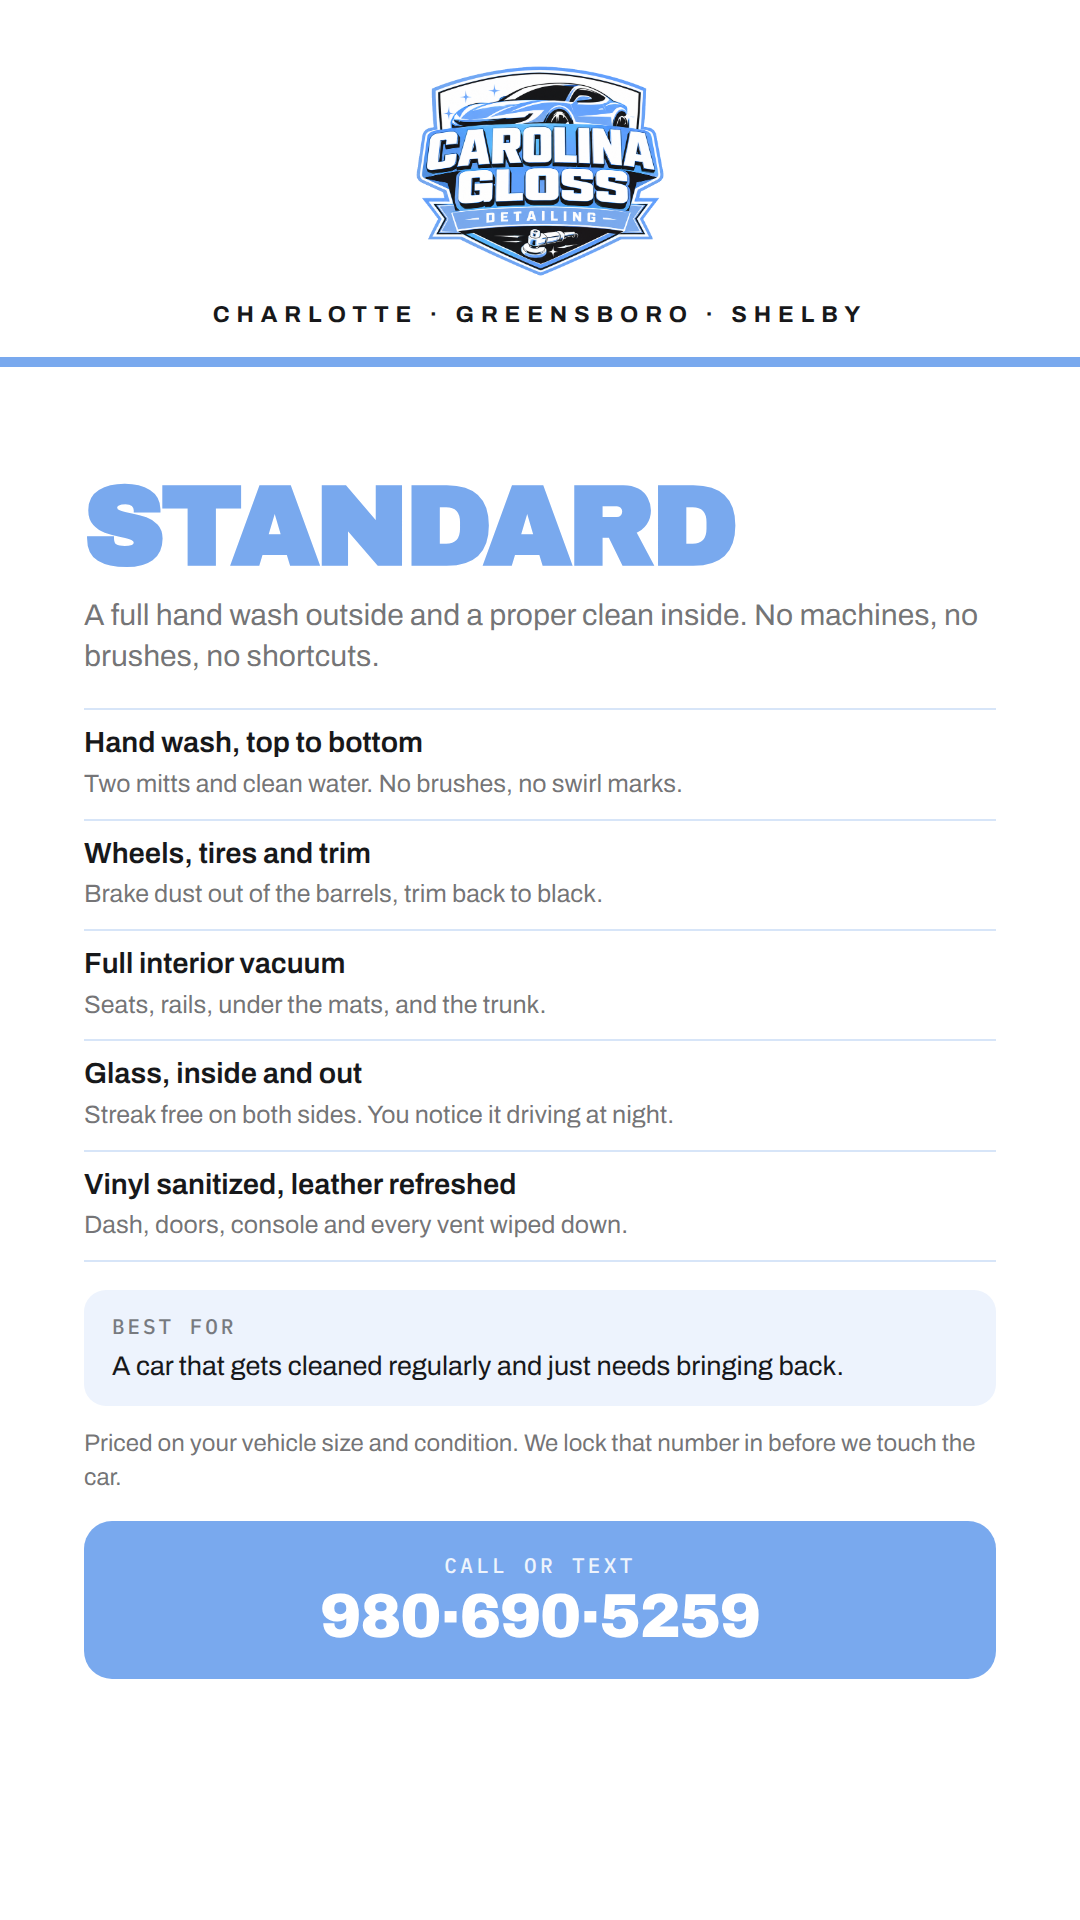
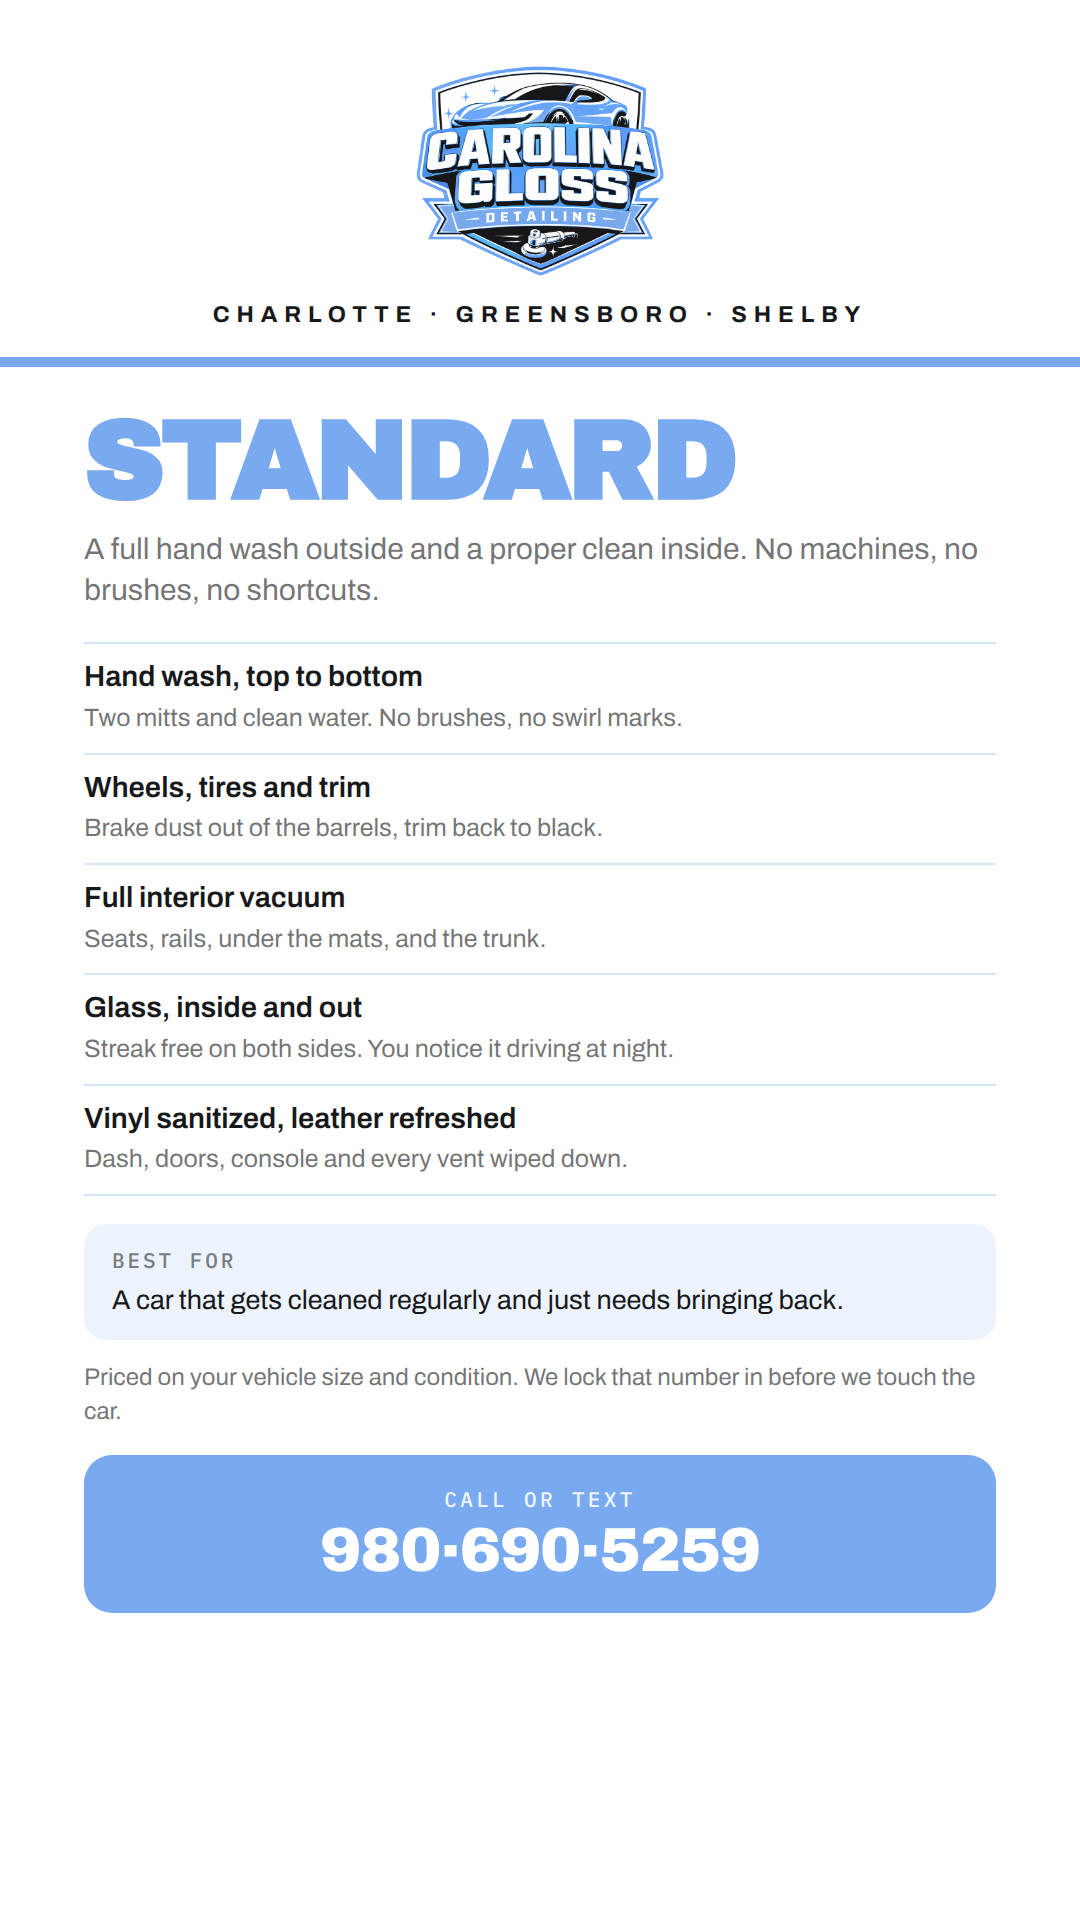
Replace the badge with a blue corner ribbon on Gloss
A diagonal "#1 MOST POPULAR" ribbon in the top right corner, in the brand
blue, sized to end just above the divider bar so it stays inside the white
header. Gold is gone; the palette is back to black, white and blue.

Dropping the badge row moved every headline up, so all three frames are
re-rendered to keep them aligned with each other.

Claude-Session: https://claude.ai/code/session_016b3V5EjCTmSZMCSHy3XdSF

Changed region(s): [[0.0611, 0.2188, 0.9472, 0.875]]

diff --git a/design/story-highlights/Story Highlights - Services.dc.html b/design/story-highlights/Story Highlights - Services.dc.html
@@ -31,8 +31,7 @@
       </div>
       <div style="flex:0 0 auto;height:10px;background:#79A9EE;"></div>
       <div style="flex:1 1 auto;padding:44px 84px 0;box-sizing:border-box;display:flex;flex-direction:column;">
-        <div style="min-height:46px;display:flex;align-items:center;"></div>
-        <h1 style="margin:20px 0 0;font-family:'Archivo Black',Helvetica,sans-serif;font-size:112px;line-height:0.9;letter-spacing:-0.03em;color:#79A9EE;text-transform:uppercase;">Standard</h1>
+        <h1 style="margin:0;font-family:'Archivo Black',Helvetica,sans-serif;font-size:112px;line-height:0.9;letter-spacing:-0.03em;color:#79A9EE;text-transform:uppercase;">Standard</h1>
         <p style="margin:18px 0 0;font:400 30px/1.38 'Archivo',sans-serif;color:rgba(23,24,26,0.62);text-wrap:pretty;">A full hand wash outside and a proper clean inside. No machines, no brushes, no shortcuts.</p>
         <div style="margin-top:30px;"><div style="padding:17px 0;border-top:2px solid #D7E5F8;"><div style="font:600 29px/1.2 'Archivo',sans-serif;color:#17181A;">Hand wash, top to bottom</div><div style="margin-top:6px;font:400 25px/1.34 'Archivo',sans-serif;color:rgba(23,24,26,0.62);">Two mitts and clean water. No brushes, no swirl marks.</div></div><div style="padding:17px 0;border-top:2px solid #D7E5F8;"><div style="font:600 29px/1.2 'Archivo',sans-serif;color:#17181A;">Wheels, tires and trim</div><div style="margin-top:6px;font:400 25px/1.34 'Archivo',sans-serif;color:rgba(23,24,26,0.62);">Brake dust out of the barrels, trim back to black.</div></div><div style="padding:17px 0;border-top:2px solid #D7E5F8;"><div style="font:600 29px/1.2 'Archivo',sans-serif;color:#17181A;">Full interior vacuum</div><div style="margin-top:6px;font:400 25px/1.34 'Archivo',sans-serif;color:rgba(23,24,26,0.62);">Seats, rails, under the mats, and the trunk.</div></div><div style="padding:17px 0;border-top:2px solid #D7E5F8;"><div style="font:600 29px/1.2 'Archivo',sans-serif;color:#17181A;">Glass, inside and out</div><div style="margin-top:6px;font:400 25px/1.34 'Archivo',sans-serif;color:rgba(23,24,26,0.62);">Streak free on both sides. You notice it driving at night.</div></div><div style="padding:17px 0;border-top:2px solid #D7E5F8;border-bottom:2px solid #D7E5F8;"><div style="font:600 29px/1.2 'Archivo',sans-serif;color:#17181A;">Vinyl sanitized, leather refreshed</div><div style="margin-top:6px;font:400 25px/1.34 'Archivo',sans-serif;color:rgba(23,24,26,0.62);">Dash, doors, console and every vent wiped down.</div></div></div>
         <div style="margin-top:28px;background:#EDF3FD;border-radius:22px;padding:22px 28px;">
@@ -52,15 +51,14 @@
     <sc-if value="{{ showLabels }}" hint-placeholder-val="{{ true }}">
       <div style="font:500 30px 'IBM Plex Mono',monospace;color:#8A95A2;letter-spacing:0.04em;">02 Gloss</div>
     </sc-if>
-    <section data-screen-label="02 Gloss" style="width:1080px;height:1920px;flex:0 0 auto;position:relative;overflow:hidden;background:#FFFFFF;display:flex;flex-direction:column;">
+    <section data-screen-label="02 Gloss" style="width:1080px;height:1920px;flex:0 0 auto;position:relative;overflow:hidden;background:#FFFFFF;display:flex;flex-direction:column;"><div style="position:absolute;top:0;right:0;width:340px;height:340px;overflow:hidden;"><span style="position:absolute;width:481px;left:-70px;top:138px;padding:16px 0;background:#79A9EE;color:#FFFFFF;text-align:center;transform:rotate(45deg);font:700 27px 'Archivo',sans-serif;letter-spacing:0.1em;">&#9733; #1 MOST POPULAR</span></div>
       <div style="flex:0 0 auto;padding:64px 84px 30px;display:flex;flex-direction:column;align-items:center;">
         <img src="assets/logo.png" alt="Carolina Gloss Detailing" style="width:252px;height:auto;display:block;">
         <div style="margin-top:24px;font:700 23px 'Archivo',sans-serif;letter-spacing:0.3em;color:#17181A;">CHARLOTTE · GREENSBORO · SHELBY</div>
       </div>
       <div style="flex:0 0 auto;height:10px;background:#79A9EE;"></div>
       <div style="flex:1 1 auto;padding:44px 84px 0;box-sizing:border-box;display:flex;flex-direction:column;">
-        <div style="min-height:46px;display:flex;align-items:center;"><div style="flex:0 0 auto;display:inline-flex;align-items:center;gap:10px;background:#E8B33F;color:#17181A;border:3px solid #B2822A;border-radius:999px;padding:8px 22px 8px 18px;font:700 22px 'Archivo',sans-serif;letter-spacing:0.08em;"><span style="font-size:24px;line-height:1;">★</span>MOST POPULAR</div></div>
-        <h1 style="margin:20px 0 0;font-family:'Archivo Black',Helvetica,sans-serif;font-size:112px;line-height:0.9;letter-spacing:-0.03em;color:#79A9EE;text-transform:uppercase;">Gloss</h1>
+        <h1 style="margin:0;font-family:'Archivo Black',Helvetica,sans-serif;font-size:112px;line-height:0.9;letter-spacing:-0.03em;color:#79A9EE;text-transform:uppercase;">Gloss</h1>
         <p style="margin:18px 0 0;font:400 30px/1.38 'Archivo',sans-serif;color:rgba(23,24,26,0.62);text-wrap:pretty;">Everything in Standard, then two steps that change how the car actually feels.</p>
         <div style="margin-top:30px;"><div style="padding:17px 0;border-top:2px solid #D7E5F8;"><div style="font:600 29px/1.2 'Archivo',sans-serif;color:#17181A;">Clay bar</div><div style="margin-top:6px;font:400 25px/1.34 'Archivo',sans-serif;color:rgba(23,24,26,0.62);">Pulls the grit washing cannot reach. Run your hand over the hood after.</div></div><div style="padding:17px 0;border-top:2px solid #D7E5F8;"><div style="font:600 29px/1.2 'Archivo',sans-serif;color:#17181A;">Hot water extraction</div><div style="margin-top:6px;font:400 25px/1.34 'Archivo',sans-serif;color:rgba(23,24,26,0.62);">Coffee, dog, kids, gym bag. Gone, not covered up.</div></div><div style="padding:17px 0;border-top:2px solid #D7E5F8;"><div style="font:600 29px/1.2 'Archivo',sans-serif;color:#17181A;">Two bucket wash</div><div style="margin-top:6px;font:400 25px/1.34 'Archivo',sans-serif;color:rgba(23,24,26,0.62);">Dirt goes in its own bucket, never back onto your paint.</div></div><div style="padding:17px 0;border-top:2px solid #D7E5F8;"><div style="font:600 29px/1.2 'Archivo',sans-serif;color:#17181A;">Leather and vinyl conditioned</div><div style="margin-top:6px;font:400 25px/1.34 'Archivo',sans-serif;color:rgba(23,24,26,0.62);">So it stops drying out and cracking in the Carolina sun.</div></div><div style="padding:17px 0;border-top:2px solid #D7E5F8;border-bottom:2px solid #D7E5F8;"><div style="font:600 29px/1.2 'Archivo',sans-serif;color:#17181A;">Wheels and tires, second pass</div><div style="margin-top:6px;font:400 25px/1.34 'Archivo',sans-serif;color:rgba(23,24,26,0.62);">Faces, barrels and lug seats done properly, then dressed.</div></div></div>
         <div style="margin-top:28px;background:#EDF3FD;border-radius:22px;padding:22px 28px;">
@@ -87,8 +85,7 @@
       </div>
       <div style="flex:0 0 auto;height:10px;background:#79A9EE;"></div>
       <div style="flex:1 1 auto;padding:44px 84px 0;box-sizing:border-box;display:flex;flex-direction:column;">
-        <div style="min-height:46px;display:flex;align-items:center;"></div>
-        <h1 style="margin:20px 0 0;font-family:'Archivo Black',Helvetica,sans-serif;font-size:112px;line-height:0.9;letter-spacing:-0.03em;color:#79A9EE;text-transform:uppercase;">Deluxe</h1>
+        <h1 style="margin:0;font-family:'Archivo Black',Helvetica,sans-serif;font-size:112px;line-height:0.9;letter-spacing:-0.03em;color:#79A9EE;text-transform:uppercase;">Deluxe</h1>
         <p style="margin:18px 0 0;font:400 30px/1.38 'Archivo',sans-serif;color:rgba(23,24,26,0.62);text-wrap:pretty;">We strip it back first so the new protection actually bonds, then seal and wax it.</p>
         <div style="margin-top:30px;"><div style="padding:17px 0;border-top:2px solid #D7E5F8;"><div style="font:600 29px/1.2 'Archivo',sans-serif;color:#17181A;">Full clay bar</div><div style="margin-top:6px;font:400 25px/1.34 'Archivo',sans-serif;color:rgba(23,24,26,0.62);">The whole body decontaminated panel by panel, not a spot treatment.</div></div><div style="padding:17px 0;border-top:2px solid #D7E5F8;"><div style="font:600 29px/1.2 'Archivo',sans-serif;color:#17181A;">Chemical strip wash</div><div style="margin-top:6px;font:400 25px/1.34 'Archivo',sans-serif;color:rgba(23,24,26,0.62);">Old wax and road film off so the new protection bonds.</div></div><div style="padding:17px 0;border-top:2px solid #D7E5F8;"><div style="font:600 29px/1.2 'Archivo',sans-serif;color:#17181A;">Ceramic soap</div><div style="margin-top:6px;font:400 25px/1.34 'Archivo',sans-serif;color:rgba(23,24,26,0.62);">Lays down a slick layer. Water sheets straight off your paint.</div></div><div style="padding:17px 0;border-top:2px solid #D7E5F8;"><div style="font:600 29px/1.2 'Archivo',sans-serif;color:#17181A;">Hand wax and spray sealant</div><div style="margin-top:6px;font:400 25px/1.34 'Archivo',sans-serif;color:rgba(23,24,26,0.62);">Months of protection against pollen, sun and road salt.</div></div><div style="padding:17px 0;border-top:2px solid #D7E5F8;border-bottom:2px solid #D7E5F8;"><div style="font:600 29px/1.2 'Archivo',sans-serif;color:#17181A;">Interior shampooed and conditioned</div><div style="margin-top:6px;font:400 25px/1.34 'Archivo',sans-serif;color:rgba(23,24,26,0.62);">Comes back looking like a lease return.</div></div></div>
         <div style="margin-top:28px;background:#EDF3FD;border-radius:22px;padding:22px 28px;">

diff --git a/design/story-highlights/build.py b/design/story-highlights/build.py
@@ -22,7 +22,6 @@ BLUE = "#79A9EE"         # logo Carolina blue
 TINT = "#EDF3FD"         # BLUE washed into white, for cards
 RULE = "#D7E5F8"         # BLUE washed into white, for dividers
 MUTED = "rgba(23,24,26,0.62)"   # the same black, stepped back
-GOLD, GOLD_EDGE = "#E8B33F", "#B2822A"   # Most Popular badge only
 
 PHONE = "980\u00b7690\u00b75259"
 CITIES = "CHARLOTTE \u00b7 GREENSBORO \u00b7 SHELBY"
@@ -92,11 +91,8 @@ def row_html(title, desc, last):
 
 
 def page(pkg, logo_uri, faces):
-    pill = ('<div style="flex:0 0 auto;display:inline-flex;align-items:center;gap:10px;'
-            'background:{gold};color:{ink};border:3px solid {edge};border-radius:999px;'
-            'padding:8px 22px 8px 18px;font:700 22px Archivo,sans-serif;letter-spacing:0.08em;">'
-            '<span style="font-size:24px;line-height:1;">\u2605</span>MOST POPULAR</div>'
-            ).format(gold=GOLD, edge=GOLD_EDGE, ink=INK) if pkg["popular"] else ""
+    ribbon = ('<div class="ribbon"><span>&#9733; #1 MOST POPULAR</span></div>'
+              if pkg["popular"] else "")
     rows = "".join(row_html(t, d, i == len(pkg["rows"]) - 1)
                    for i, (t, d) in enumerate(pkg["rows"]))
     return """<!doctype html><html><head><meta charset="utf-8"><style>
@@ -106,7 +102,13 @@ html,body{{margin:0;padding:0;}}
 body{{width:1080px;height:1920px;overflow:hidden;background:#fff;
  font-family:Archivo,Helvetica,sans-serif;-webkit-font-smoothing:antialiased;
  text-rendering:geometricPrecision;color:{ink};}}
-.frame{{width:1080px;height:1920px;display:flex;flex-direction:column;background:#fff;}}
+.frame{{width:1080px;height:1920px;display:flex;flex-direction:column;background:#fff;
+ position:relative;overflow:hidden;}}
+.ribbon{{position:absolute;top:0;right:0;width:340px;height:340px;overflow:hidden;
+ pointer-events:none;}}
+.ribbon span{{position:absolute;width:481px;left:-70px;top:138px;padding:16px 0;
+ background:{blue};color:#FFFFFF;text-align:center;transform:rotate(45deg);
+ font:700 27px Archivo,sans-serif;letter-spacing:0.1em;}}
 .head{{flex:0 0 auto;padding:64px 84px 30px;display:flex;flex-direction:column;
  align-items:center;}}
 .head img{{width:252px;height:auto;display:block;}}
@@ -114,8 +116,7 @@ body{{width:1080px;height:1920px;overflow:hidden;background:#fff;
  letter-spacing:0.3em;color:{ink};}}
 .bar{{flex:0 0 auto;height:10px;background:{blue};}}
 .body{{flex:1 1 auto;padding:44px 84px 0;display:flex;flex-direction:column;}}
-.eyebrow{{min-height:46px;display:flex;align-items:center;}}
-h1{{margin:20px 0 0;font-family:'Archivo Black',Helvetica,sans-serif;font-size:112px;
+h1{{margin:0;font-family:'Archivo Black',Helvetica,sans-serif;font-size:112px;
  line-height:0.9;letter-spacing:-0.03em;color:{blue};text-transform:uppercase;}}
 .sub{{margin:18px 0 0;font:400 30px/1.38 Archivo,sans-serif;color:{muted};}}
 .rows{{margin-top:30px;}}
@@ -130,12 +131,11 @@ h1{{margin:20px 0 0;font-family:'Archivo Black',Helvetica,sans-serif;font-size:1
  color:#FFFFFF;opacity:0.88;}}
 .cta .num{{margin-top:8px;font-family:'Archivo Black',Helvetica,sans-serif;font-size:62px;
  line-height:1;letter-spacing:-0.02em;color:#FFFFFF;white-space:nowrap;}}
-</style></head><body><div class="frame">
+</style></head><body><div class="frame">{ribbon}
 <div class="head"><img src="{logo}" alt="Carolina Gloss Detailing">
 <div class="cities">{cities}</div></div>
 <div class="bar"></div>
 <div class="body">
-<div class="eyebrow">{pill}</div>
 <h1>{title}</h1>
 <p class="sub">{sub}</p>
 <div class="rows">{rows}</div>
@@ -144,7 +144,7 @@ h1{{margin:20px 0 0;font-family:'Archivo Black',Helvetica,sans-serif;font-size:1
 <div class="cta"><div class="lbl">CALL OR TEXT</div><div class="num">{phone}</div></div>
 </div></div></body></html>""".format(
         faces=faces, ink=INK, blue=BLUE, tint=TINT, muted=MUTED,
-        logo=logo_uri, cities=CITIES, pill=pill,
+        logo=logo_uri, cities=CITIES, ribbon=ribbon,
         title=pkg["title"], sub=pkg["sub"], rows=rows, best=pkg["best"],
         price=PRICE_LINE, phone=PHONE)
 
@@ -159,7 +159,10 @@ def main():
         write_canvas()
         return
     measure = "--measure" in sys.argv
+    only = [a for a in sys.argv[1:] if not a.startswith("--")]
     for pkg in PACKAGES:
+        if only and pkg["slug"] not in only:
+            continue
         html_path = os.path.join(tmp, "render-%s.html" % pkg["slug"])
         with open(html_path, "w") as fh:
             fh.write(page(pkg, logo_uri, faces))
@@ -196,11 +199,11 @@ def main():
 # additionally accepts a real photo behind a dark scrim once the client has one.
 
 def canvas_section(pkg, idx):
-    pill = ('<div style="flex:0 0 auto;display:inline-flex;align-items:center;gap:10px;'
-            'background:%s;color:%s;border:3px solid %s;border-radius:999px;'
-            'padding:8px 22px 8px 18px;font:700 22px \'Archivo\',sans-serif;letter-spacing:0.08em;">'
-            '<span style="font-size:24px;line-height:1;">\u2605</span>MOST POPULAR</div>'
-            % (GOLD, INK, GOLD_EDGE)) if pkg["popular"] else ""
+    ribbon = ('<div style="position:absolute;top:0;right:0;width:340px;height:340px;overflow:hidden;">'
+              '<span style="position:absolute;width:481px;left:-70px;top:138px;padding:16px 0;'
+              'background:%s;color:#FFFFFF;text-align:center;transform:rotate(45deg);'
+              'font:700 27px \'Archivo\',sans-serif;letter-spacing:0.1em;">'
+              '&#9733; #1 MOST POPULAR</span></div>' % BLUE) if pkg["popular"] else ""
     rows = []
     for i, (t, d) in enumerate(pkg["rows"]):
         edge = "border-bottom:2px solid %s;" % RULE if i == len(pkg["rows"]) - 1 else ""
@@ -214,15 +217,14 @@ def canvas_section(pkg, idx):
     <sc-if value="{{{{ showLabels }}}}" hint-placeholder-val="{{{{ true }}}}">
       <div style="font:500 30px 'IBM Plex Mono',monospace;color:#8A95A2;letter-spacing:0.04em;">{label}</div>
     </sc-if>
-    <section data-screen-label="{label}" style="width:1080px;height:1920px;flex:0 0 auto;position:relative;overflow:hidden;background:#FFFFFF;display:flex;flex-direction:column;">
+    <section data-screen-label="{label}" style="width:1080px;height:1920px;flex:0 0 auto;position:relative;overflow:hidden;background:#FFFFFF;display:flex;flex-direction:column;">{ribbon}
       <div style="flex:0 0 auto;padding:64px 84px 30px;display:flex;flex-direction:column;align-items:center;">
         <img src="assets/logo.png" alt="Carolina Gloss Detailing" style="width:252px;height:auto;display:block;">
         <div style="margin-top:24px;font:700 23px 'Archivo',sans-serif;letter-spacing:0.3em;color:{ink};">{cities}</div>
       </div>
       <div style="flex:0 0 auto;height:10px;background:{blue};"></div>
       <div style="flex:1 1 auto;padding:44px 84px 0;box-sizing:border-box;display:flex;flex-direction:column;">
-        <div style="min-height:46px;display:flex;align-items:center;">{pill}</div>
-        <h1 style="margin:20px 0 0;font-family:'Archivo Black',Helvetica,sans-serif;font-size:112px;line-height:0.9;letter-spacing:-0.03em;color:{blue};text-transform:uppercase;">{title}</h1>
+        <h1 style="margin:0;font-family:'Archivo Black',Helvetica,sans-serif;font-size:112px;line-height:0.9;letter-spacing:-0.03em;color:{blue};text-transform:uppercase;">{title}</h1>
         <p style="margin:18px 0 0;font:400 30px/1.38 'Archivo',sans-serif;color:{muted};text-wrap:pretty;">{sub}</p>
         <div style="margin-top:30px;">{rows}</div>
         <div style="margin-top:28px;background:{tint};border-radius:22px;padding:22px 28px;">
@@ -239,7 +241,7 @@ def canvas_section(pkg, idx):
   </div>
 """.format(label=pkg["slug"].replace("-", " ").title(), ink=INK, blue=BLUE,
            tint=TINT, muted=MUTED, cities=CITIES,
-           pill=pill, title=pkg["title"], sub=pkg["sub"], rows="".join(rows),
+           ribbon=ribbon, title=pkg["title"], sub=pkg["sub"], rows="".join(rows),
            best=pkg["best"], price=PRICE_LINE, phone=PHONE)
 
 

diff --git a/design/story-highlights/COPY.md b/design/story-highlights/COPY.md
@@ -27,7 +27,7 @@ A full hand wash outside and a proper clean inside. No machines, no brushes, no 
 
 **Best for** A car that gets cleaned regularly and just needs bringing back.
 
-## GLOSS  `MOST POPULAR`
+## GLOSS  (carries the corner ribbon)
 
 Everything in Standard, then two steps that change how the car actually feels.
 
@@ -63,8 +63,7 @@ Sampled from the pixels of `assets/logo.png`. Three colors, nothing else.
 |---|---|---|
 | White | `#FFFFFF` | the ground everywhere, and the type inside the blue CTA |
 | Black | `#17181A` | body type. Neutral, no blue cast |
-| Carolina blue | `#79A9EE` | 35% of the crest. Package name, CTA block, divider bar |
-| Gold | `#E8B33F` / `#B2822A` edge | the Most Popular badge on Gloss, and nowhere else |
+| Carolina blue | `#79A9EE` | 35% of the crest. Package name, CTA block, divider bar, the Gloss corner ribbon |
 
 `#EDF3FD` and `#D7E5F8` are that same blue washed into white for the card and the
 dividers. The blue is too light for small text on white, so it only ever appears as a
